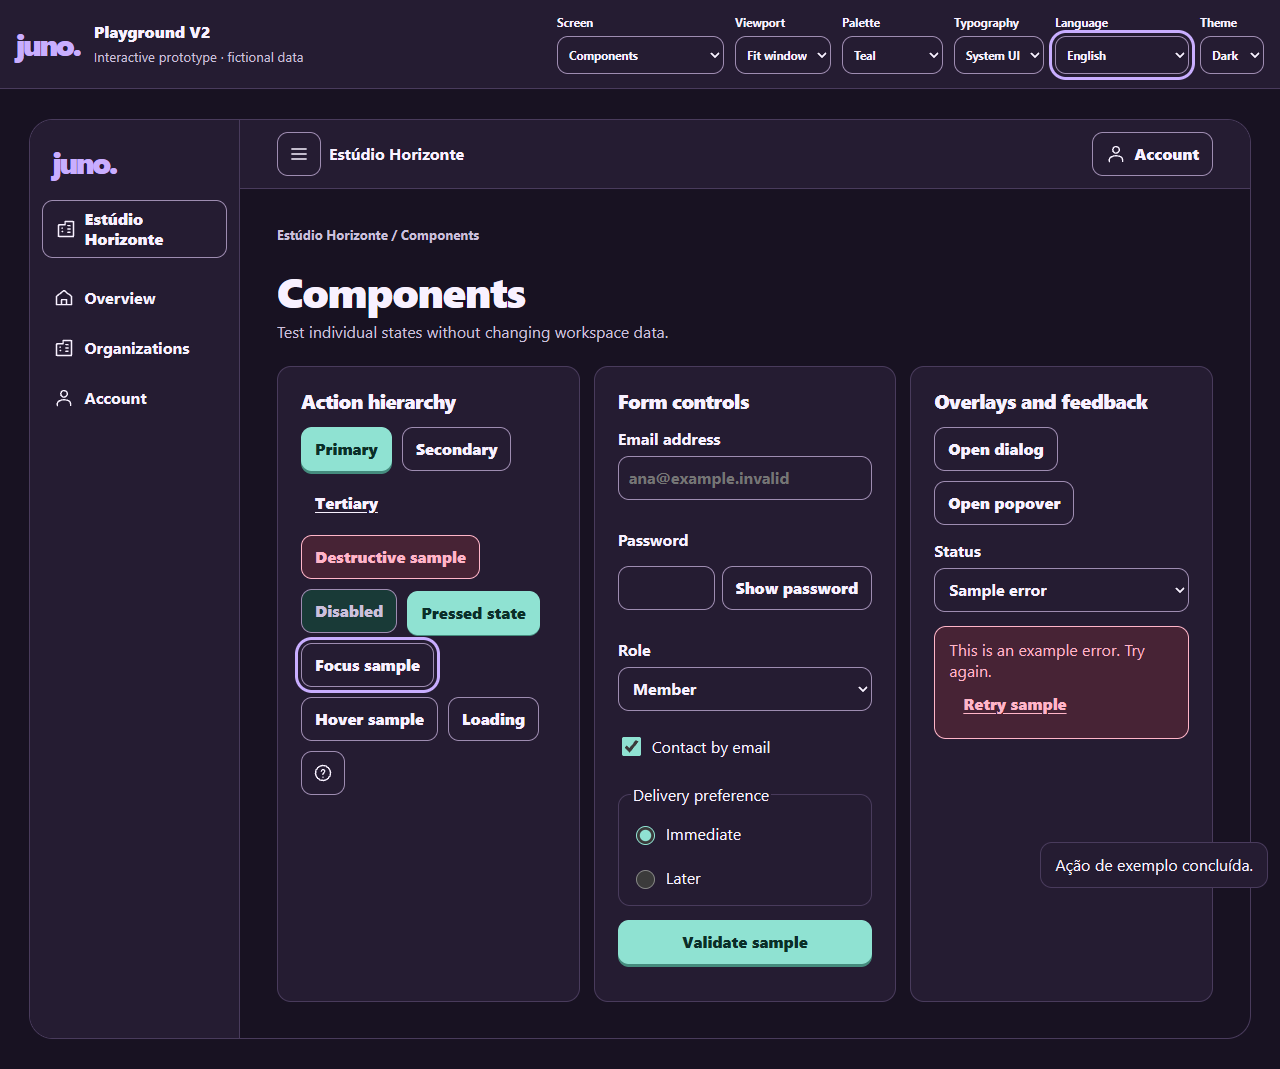
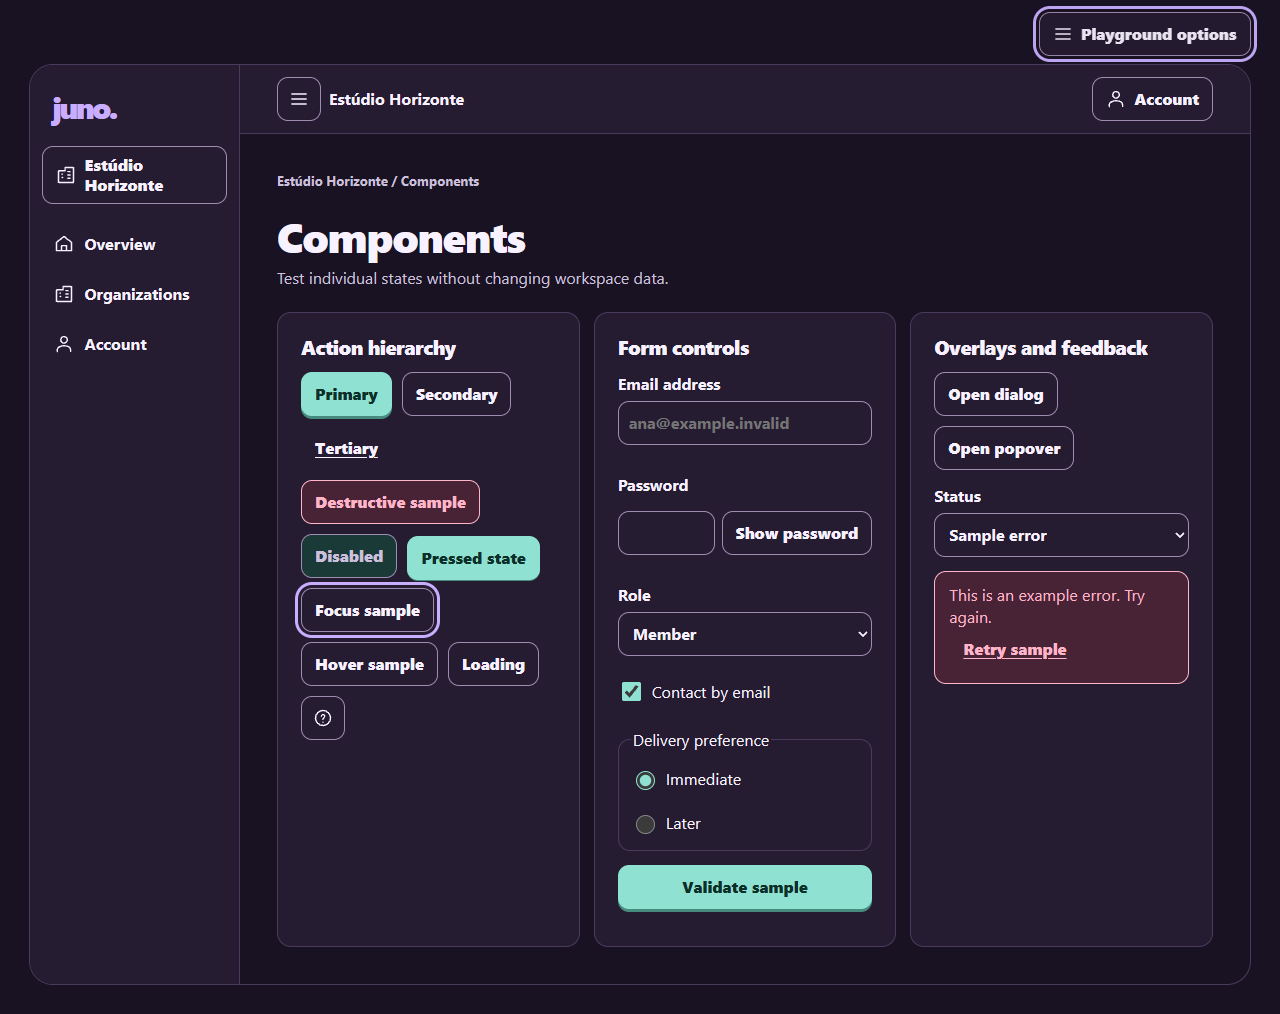
fix(prototype): tuck review controls into options menu

diff --git a/docs/design/style/style.css b/docs/design/style/style.css
@@ -137,44 +137,46 @@ small {
 }
 #review {
   display: flex;
-  justify-content: space-between;
-  align-items: center;
-  gap: 12px 24px;
-  flex-wrap: wrap;
-  background: var(--panel);
-  border-bottom: 1px solid var(--line);
-  padding: 14px max(16px, calc((100% - 1440px) / 2));
+  justify-content: flex-end;
+  padding: 12px max(clamp(8px, 2.3vw, 32px), calc((100% - 1440px) / 2)) 0;
+}
+#review-options {
+  inset: 64px max(8px, calc((100vw - 1440px) / 2)) auto auto;
+  width: min(26rem, calc(100vw - 16px));
+  max-height: calc(100dvh - 72px);
 }
 .review-title {
   display: flex;
   align-items: center;
   gap: 9px 14px;
   flex-wrap: wrap;
+  margin-bottom: 16px;
 }
 .review-title small {
   max-width: 42ch;
 }
 .controls {
-  display: flex;
-  flex-wrap: wrap;
-  gap: 7px 11px;
-  align-items: end;
+  display: grid;
+  grid-template-columns: repeat(2, minmax(0, 1fr));
+  gap: 12px;
 }
 .controls label {
-  font-size: 0.72rem;
+  font-size: 0.8rem;
   font-weight: 800;
   display: grid;
-  gap: 2px;
-  max-width: 100%;
+  gap: 4px;
+  min-width: 0;
 }
 .controls select {
-  min-height: 38px;
-  padding: 4px 7px;
-  width: auto;
-  max-width: 100%;
+  width: 100%;
+}
+@media (max-width: 380px) {
+  .controls {
+    grid-template-columns: minmax(0, 1fr);
+  }
 }
 #stage {
-  padding: clamp(8px, 2.3vw, 32px);
+  padding: 8px clamp(8px, 2.3vw, 32px) clamp(8px, 2.3vw, 32px);
   display: grid;
   justify-items: center;
 }

diff --git a/docs/design/style/index.html b/docs/design/style/index.html
@@ -5,11 +5,21 @@
     <meta name="viewport" content="width=device-width, initial-scale=1" />
     <meta name="color-scheme" content="light dark" />
     <title>Juno · Design System V2 Playground</title>
+    <link rel="icon" href="data:," />
     <link rel="stylesheet" href="style.css" />
     <script type="module" src="playground.mjs"></script>
   </head>
   <body>
-    <header id="review"></header>
+    <header id="review">
+      <button
+        id="review-toggle"
+        class="btn secondary"
+        type="button"
+        popovertarget="review-options"
+        aria-haspopup="dialog"
+      ></button>
+      <section id="review-options" popover role="dialog" aria-labelledby="review-title"></section>
+    </header>
     <div id="stage"><div id="preview"></div></div>
     <div id="announcements" role="status" aria-live="polite"></div>
   </body>

diff --git a/docs/design/style/README.md b/docs/design/style/README.md
@@ -15,7 +15,9 @@ Open [http://127.0.0.1:3304/](http://127.0.0.1:3304/). The preview needs Python 
 
 ## Review the proposal
 
-| Use the review bar     | Try inside the preview                                                                                                                                                                                                   |
+Open **Playground options** (Portuguese **Opções do playground**) to switch the preview settings. Press Escape or click outside to dismiss the menu. Choosing a screen closes it and moves focus to the screen heading.
+
+| In Playground options  | Try inside the preview                                                                                                                                                                                                   |
 | ---------------------- | ------------------------------------------------------------------------------------------------------------------------------------------------------------------------------------------------------------------------ |
 | Screen                 | Sign in using an address such as `demo@example.invalid` and any synthetic password, choose an organization, or jump to the dashboard, members, account, platform administration, or component library.                   |
 | Viewport               | Compare the expanded and compact rails, then select 390 or 320 px for bottom navigation and the workspace drawer. The preview width is capped by available window space. Resize the browser for actual viewport testing. |
@@ -41,6 +43,7 @@ Set `JUNO_PLAYGROUND_EVIDENCE` to a directory path to regenerate the images and 
 - [Platform administration, Portuguese, light, coral, Nunito](evidence/desktop-platform.png)
 - [Component library, English, dark, teal, system UI](evidence/desktop-components.png)
 - [Mobile account at 390 px, English, dark, teal, system UI](evidence/mobile-account.png)
+- [Mobile options menu at 390 px](evidence/mobile-options.png)
 - [Playwright measurements](evidence/validation.json)
 - [Maintainer-supplied visual references](references/README.md)
 - [Reference investigation](../design-system-v2-reference.md#published-product-evidence)
